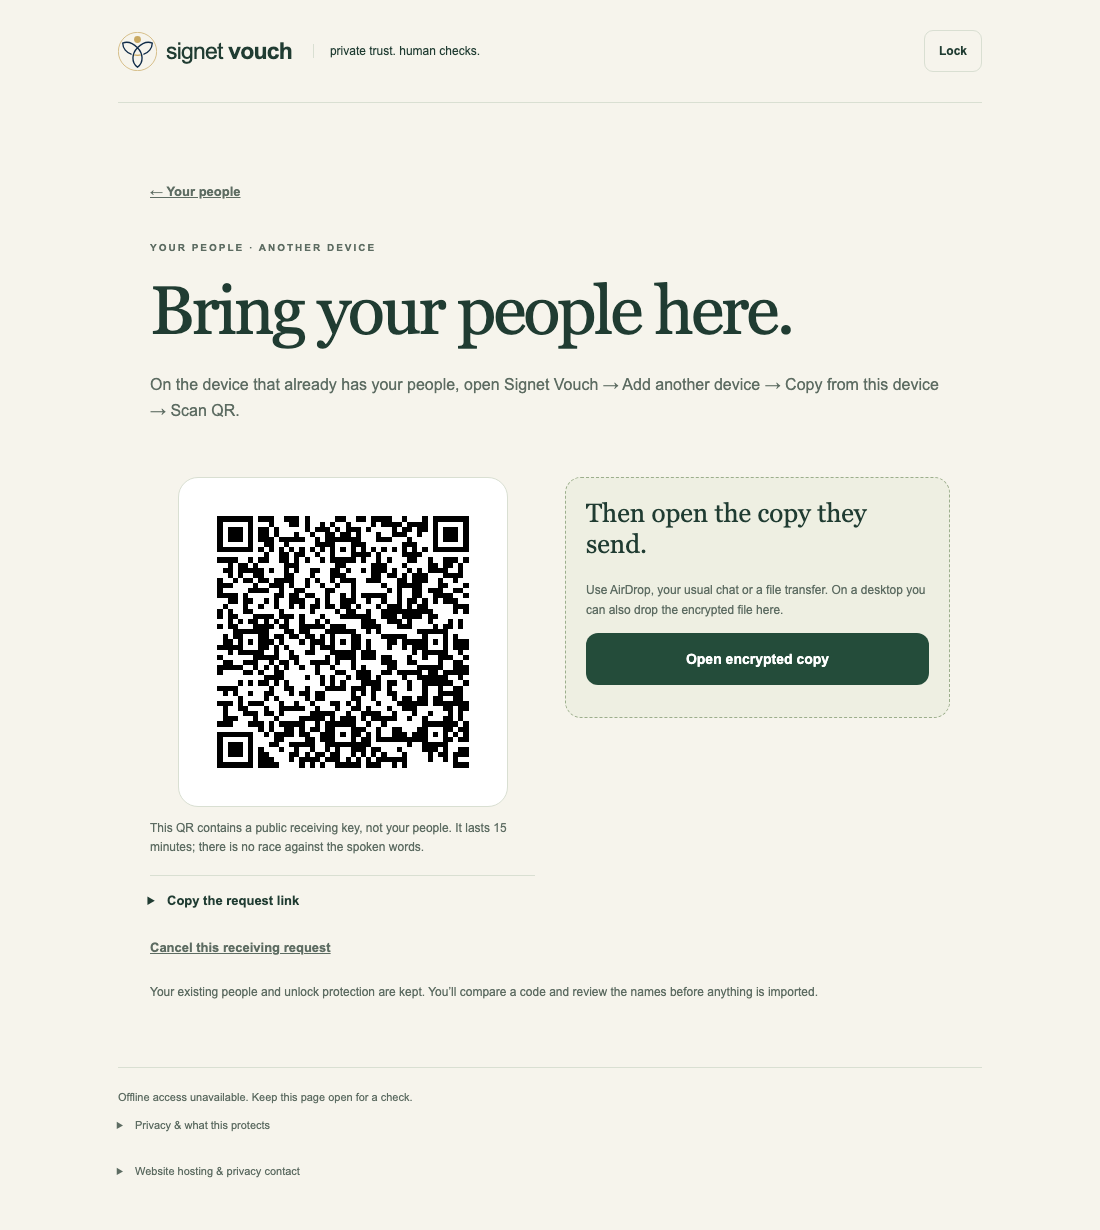
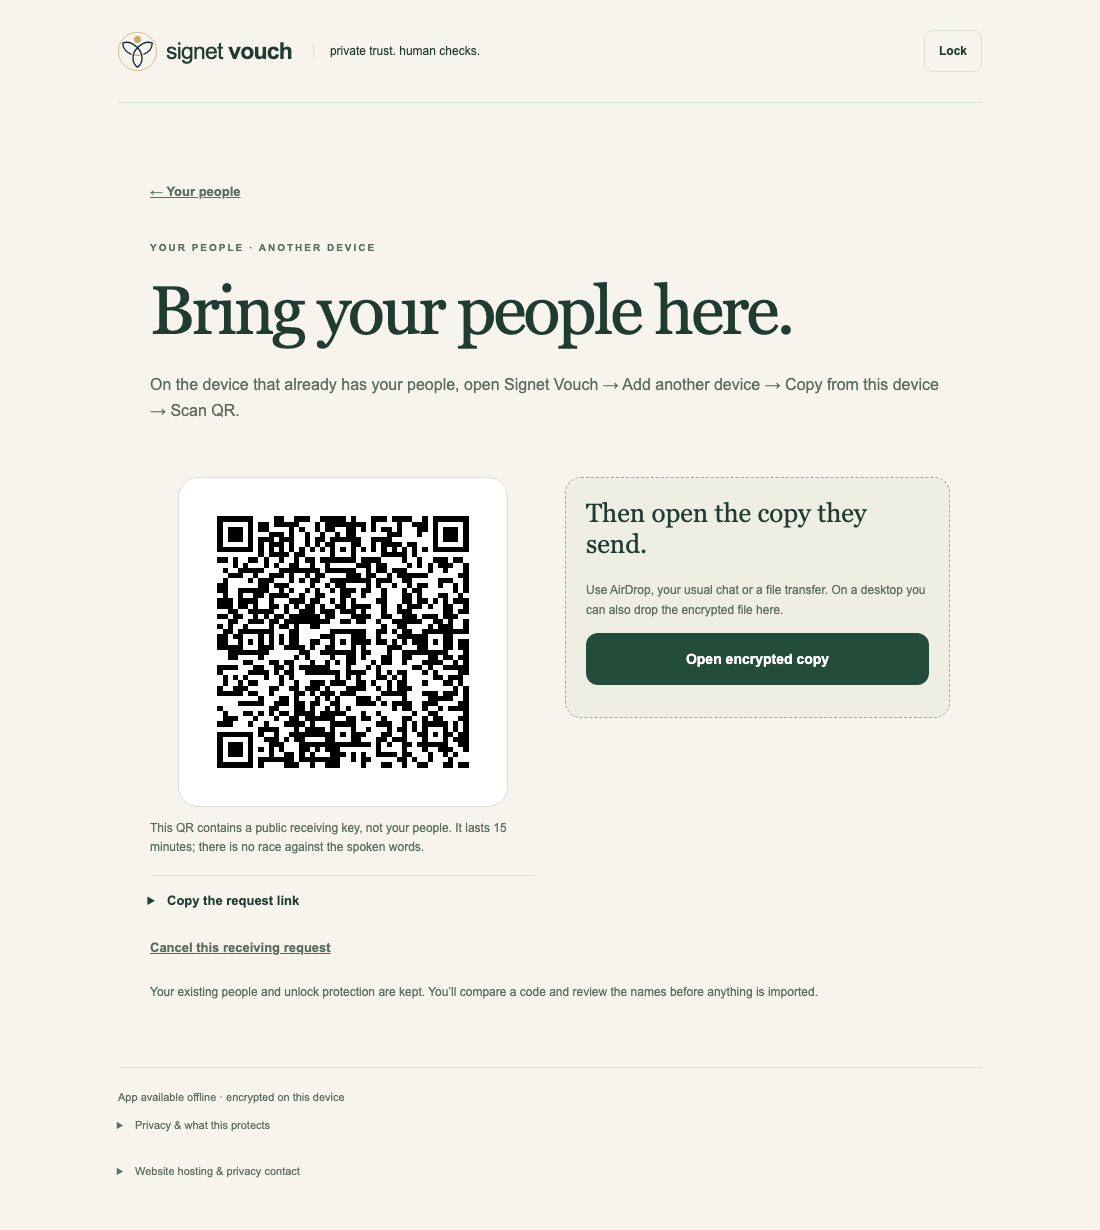
docs: record simpler Vouch live and compatibility checks

Changed region(s): [[0.1855, 0.4016, 0.4327, 0.6488], [0.1236, 0.865, 0.2782, 0.8959], [0.34, 0.865, 0.3709, 0.8959]]

diff --git a/local/VALIDATION.md b/local/VALIDATION.md
@@ -398,3 +398,31 @@ needs a fresh real-phone/novice trial, including the person who found it confusi
 PHONE-ACCEPTANCE.md records the tasks and unqualified physical/timing gates.
 Independent security/legal review remains separate. Candidate checks do not by
 themselves verify published bytes; the next publication receipt records release.
+
+### Simpler flow publication and live checks
+
+Site version **10** deployed successfully from website source
+`7919d77ad1d6e6709b6372b706373918b0441d89`, app implementation
+`91d54c0d7bd16839bc45847ae23bba905d8ea791`. The public origin, PWA ID, storage key,
+publisher/contact and hosting basis are unchanged. Receipt/hashes are in
+`evidence/publication.json`; the previous receipt is `publication-v9.json`.
+
+All six public files matched source byte for byte with required types/security
+headers and no-transform. The live mobile/offline, private-vouch and device-copy
+journeys passed. Mobile evidence includes real decoding in both QR directions,
+normal-camera URL opening, the one-button recipient, four fixed setup words,
+protected resume, call normal/duress/mismatch, fallback/recovery and offline reload.
+Private-group evidence includes name approval before proof, chosen receipt,
+explicit keeper review, separate voucher authority, replay and withdrawal checks.
+The old-artifact upgrade/downgrade test preserved words/keys and refused v5 in the
+old build without overwriting it. See the named JSON reports and phone screenshots.
+
+The updated public site was opened in Google Chrome. No physical phone, actual
+biometrics/PRF, native OS-sharing or novice acceptance is inferred. Earlier owner
+feedback remains a failed clarity result for the earlier flow; this simpler
+version needs the fresh PHONE-ACCEPTANCE.md trial. Native My Signet Android taps
+are not connected to this website or its spoken pairs.
+
+Task-owned preview server, automation browsers, dependency installation and scratch
+publication archive were removed after validation. No task service is left running.
+The Google Chrome review tab is left open intentionally.

diff --git a/local/legal/README.md b/local/legal/README.md
@@ -175,3 +175,13 @@ explicitly limited to legacy raw-secret QR/manual pairing; new nearby pairing
 is saved encrypted before scan-back. The source notice-alignment gate is closed
 for this candidate. Publication readback and physical acceptance remain open
 until separately evidenced.
+
+### Version 10 publication readback
+
+Version 10 was published from website source
+`7919d77ad1d6e6709b6372b706373918b0441d89`, app source
+`91d54c0d7bd16839bc45847ae23bba905d8ea791`. All six public files and the updated
+notice matched source with expected security headers (`../evidence/publication.json`,
+`mobile-hosting.json`). Live browser journeys passed. This closes the candidate
+publication/notice-alignment gate; it does not change the dated law review, [U]
+scope interpretations or outstanding physical/independent acceptance gates.
